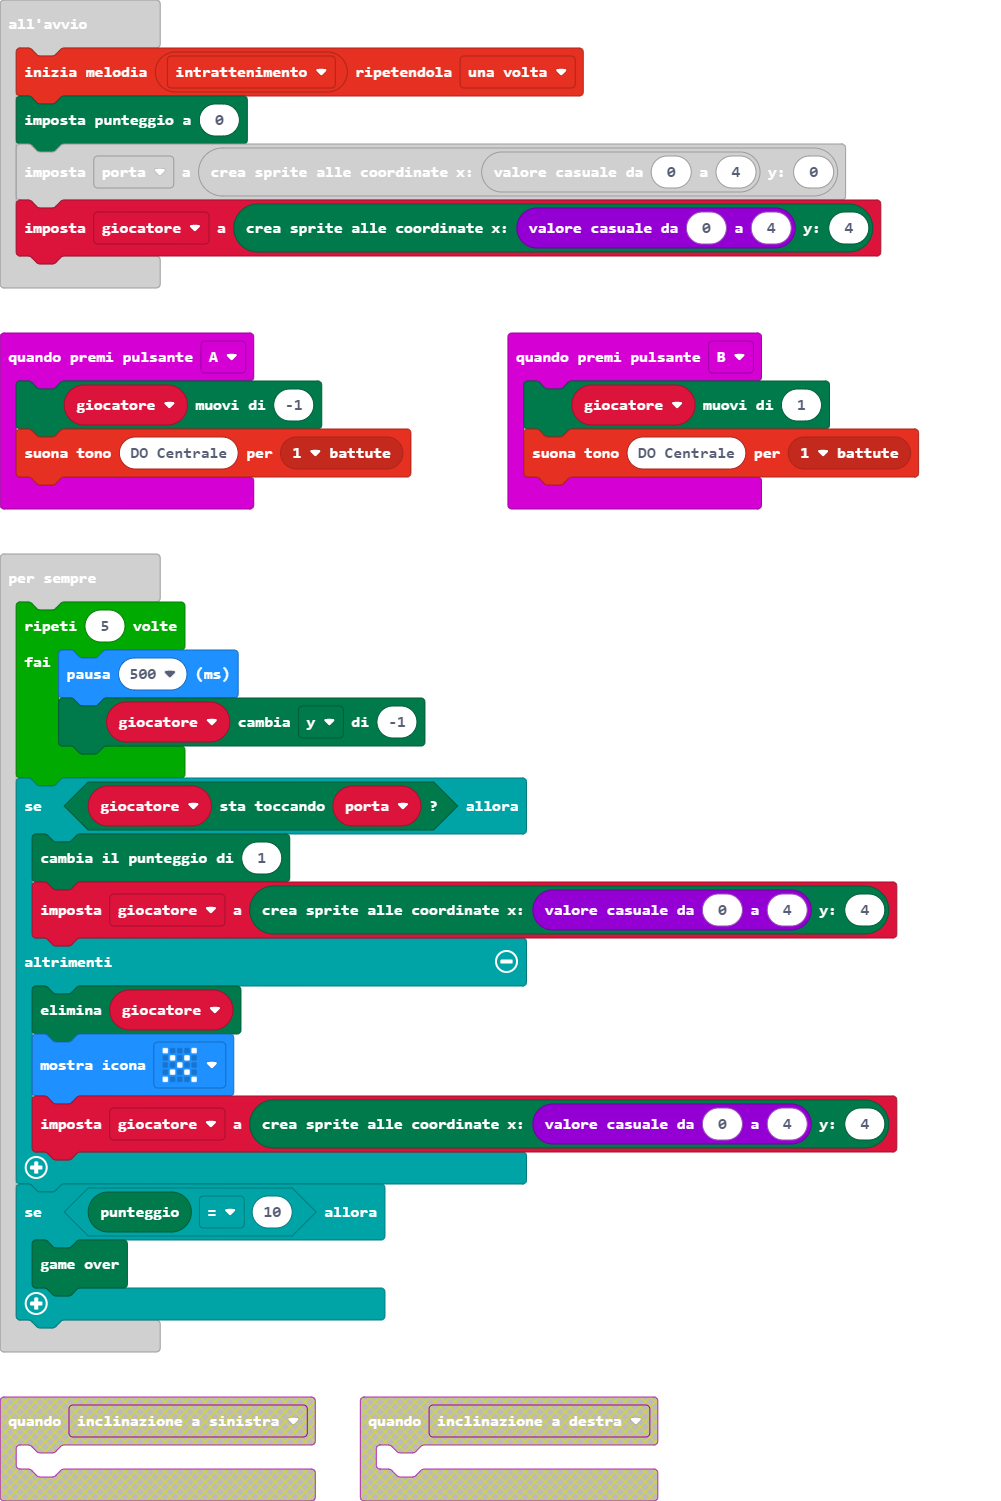
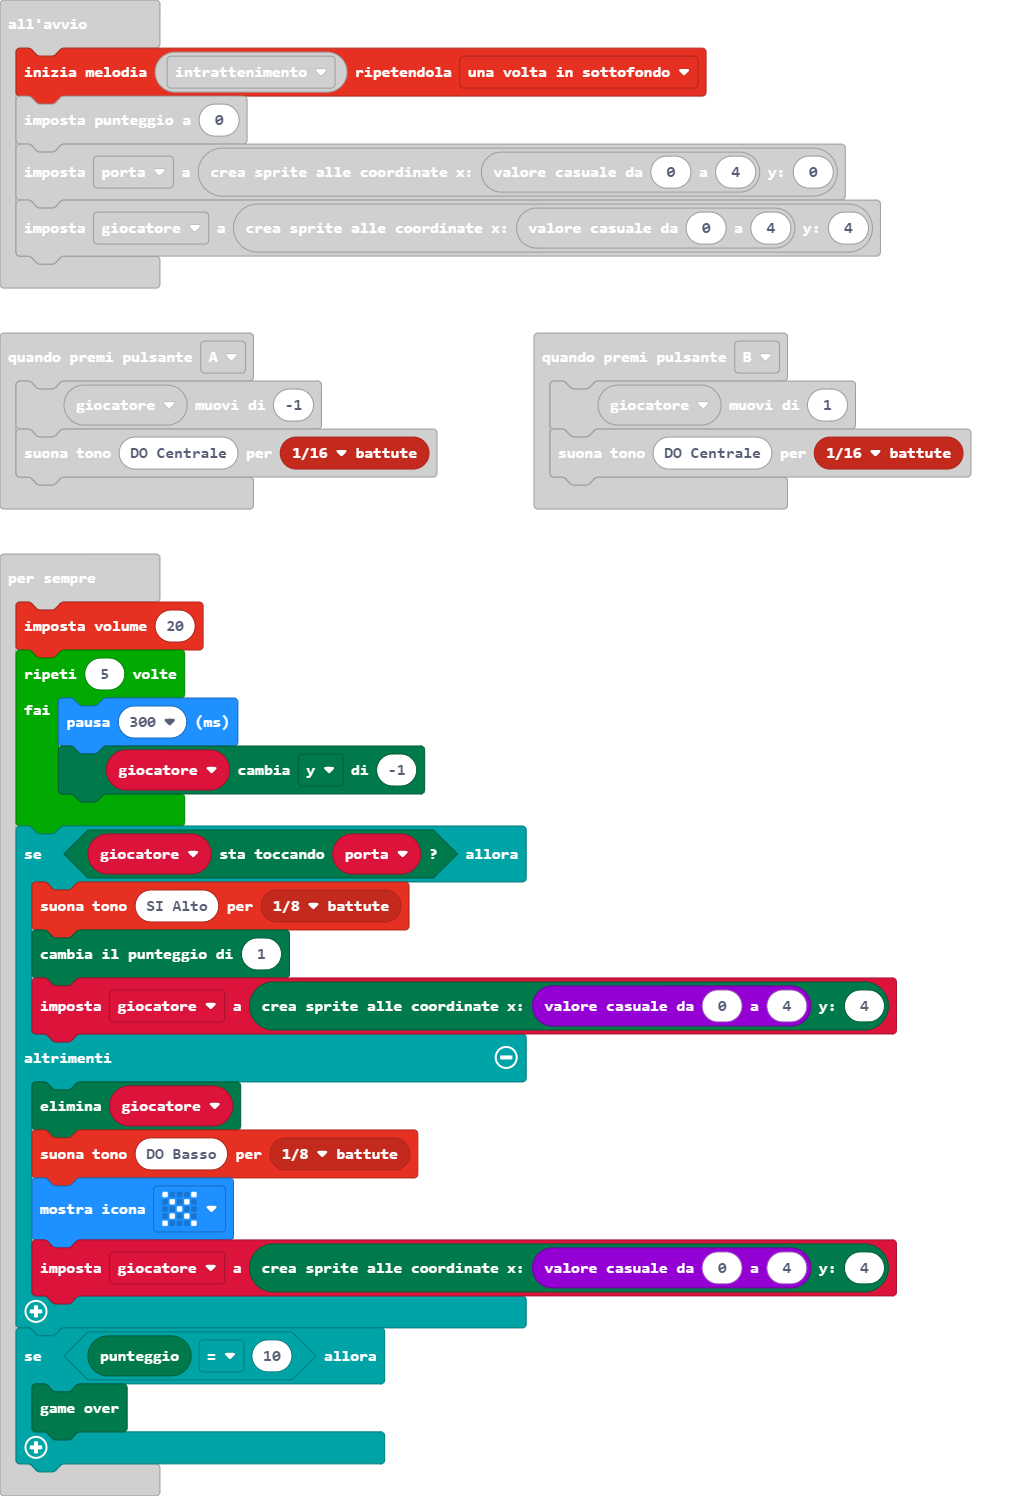
Aggiorna main.blocks, main.ts

diff --git a/main.ts b/main.ts
@@ -1,26 +1,29 @@
 input.onButtonPressed(Button.A, function () {
     giocatore.move(-1)
-    music.playTone(262, music.beat(BeatFraction.Whole))
+    music.playTone(262, music.beat(BeatFraction.Sixteenth))
 })
 input.onButtonPressed(Button.B, function () {
     giocatore.move(1)
-    music.playTone(262, music.beat(BeatFraction.Whole))
+    music.playTone(262, music.beat(BeatFraction.Sixteenth))
 })
 let giocatore: game.LedSprite = null
-music.startMelody(music.builtInMelody(Melodies.Entertainer), MelodyOptions.Once)
+music.startMelody(music.builtInMelody(Melodies.Entertainer), MelodyOptions.OnceInBackground)
 game.setScore(0)
 let porta = game.createSprite(randint(0, 4), 0)
 giocatore = game.createSprite(randint(0, 4), 4)
 basic.forever(function () {
+    music.setVolume(20)
     for (let index = 0; index < 5; index++) {
-        basic.pause(500)
+        basic.pause(300)
         giocatore.change(LedSpriteProperty.Y, -1)
     }
     if (giocatore.isTouching(porta)) {
+        music.playTone(988, music.beat(BeatFraction.Eighth))
         game.addScore(1)
         giocatore = game.createSprite(randint(0, 4), 4)
     } else {
         giocatore.delete()
+        music.playTone(131, music.beat(BeatFraction.Eighth))
         basic.showIcon(IconNames.No)
         giocatore = game.createSprite(randint(0, 4), 4)
     }
